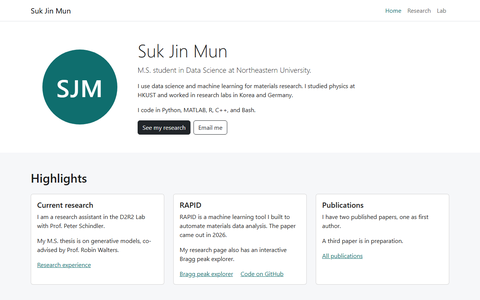
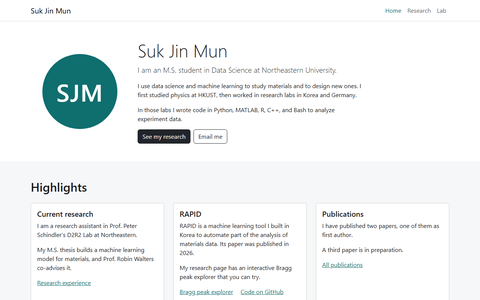
Update the README and screenshots

diff --git a/README.md b/README.md
@@ -48,7 +48,7 @@ The site is static and has no build step.
    cd CS5610_project1_SJM
    ```
 
-2. `npm install` installs Bootstrap 5.3.8 and the dev tools (ESLint, Prettier, http-server).
+2. `npm install` installs Bootstrap 5.3.8 and the dev tools (ESLint, Prettier, http-server). The pages load Bootstrap's ES module build from jsDelivr, and the import map in each page head points its one import, @popperjs/core 2.11.8, to the same CDN.
 3. `npm start` serves the site at http://localhost:8080.
 4. `npm run lint` runs ESLint with the class config.
 5. `npm run format` formats the files with Prettier.
@@ -75,18 +75,18 @@ CS5610_project1_SJM/
 
 ## GenAI use
 
-Model: Claude Opus 5.5 (claude-opus-5-5) by Anthropic, through Claude Code, September 2026.
+Model: Claude Opus 5.5 (claude-opus-5-5) by Anthropic, through Claude Code 2.1.283, September 2026.
 
-AI made the Lab page (lab.html, js/ising.js, and the Lab part of css/style.css) after I finished my other two pages. I gave it my pages as the style reference and agreed on a plan before any code. My prompts, shortened:
+AI made the Lab page (lab.html, js/ising.js, and the Lab part of css/style.css) after I finished my other two pages. I gave it my pages as the style reference and agreed on a plan before any code. My prompts, summarized:
 
-1. You are a full stack developer with 20 years of experience. Plan first, change no files, and ask me questions.
-2. Plan a 2D Ising model page with a temperature slider, play, reset, and grid size, with no libraries.
-3. Write lab.html with my shared header and footer.
+1. Help me plan an interactive physics page before changing any files.
+2. Plan a 2D Ising model page with a temperature slider, play, reset, and grid size.
+3. Build lab.html with my shared header and footer.
 4. Write the simulation in js/ising.js.
 5. Connect the controls and the readouts.
-6. Test it in Chrome and fix what is broken.
+6. Test the page in Chrome and fix any errors.
 7. Add a Tc mark and a small magnetization plot.
-8. Match my other pages and make it work on a phone.
+8. Match the style of my other pages and make it work on a phone.
 9. Add canvas labels and keyboard focus.
 10. Fix the ESLint and W3C errors.
 
